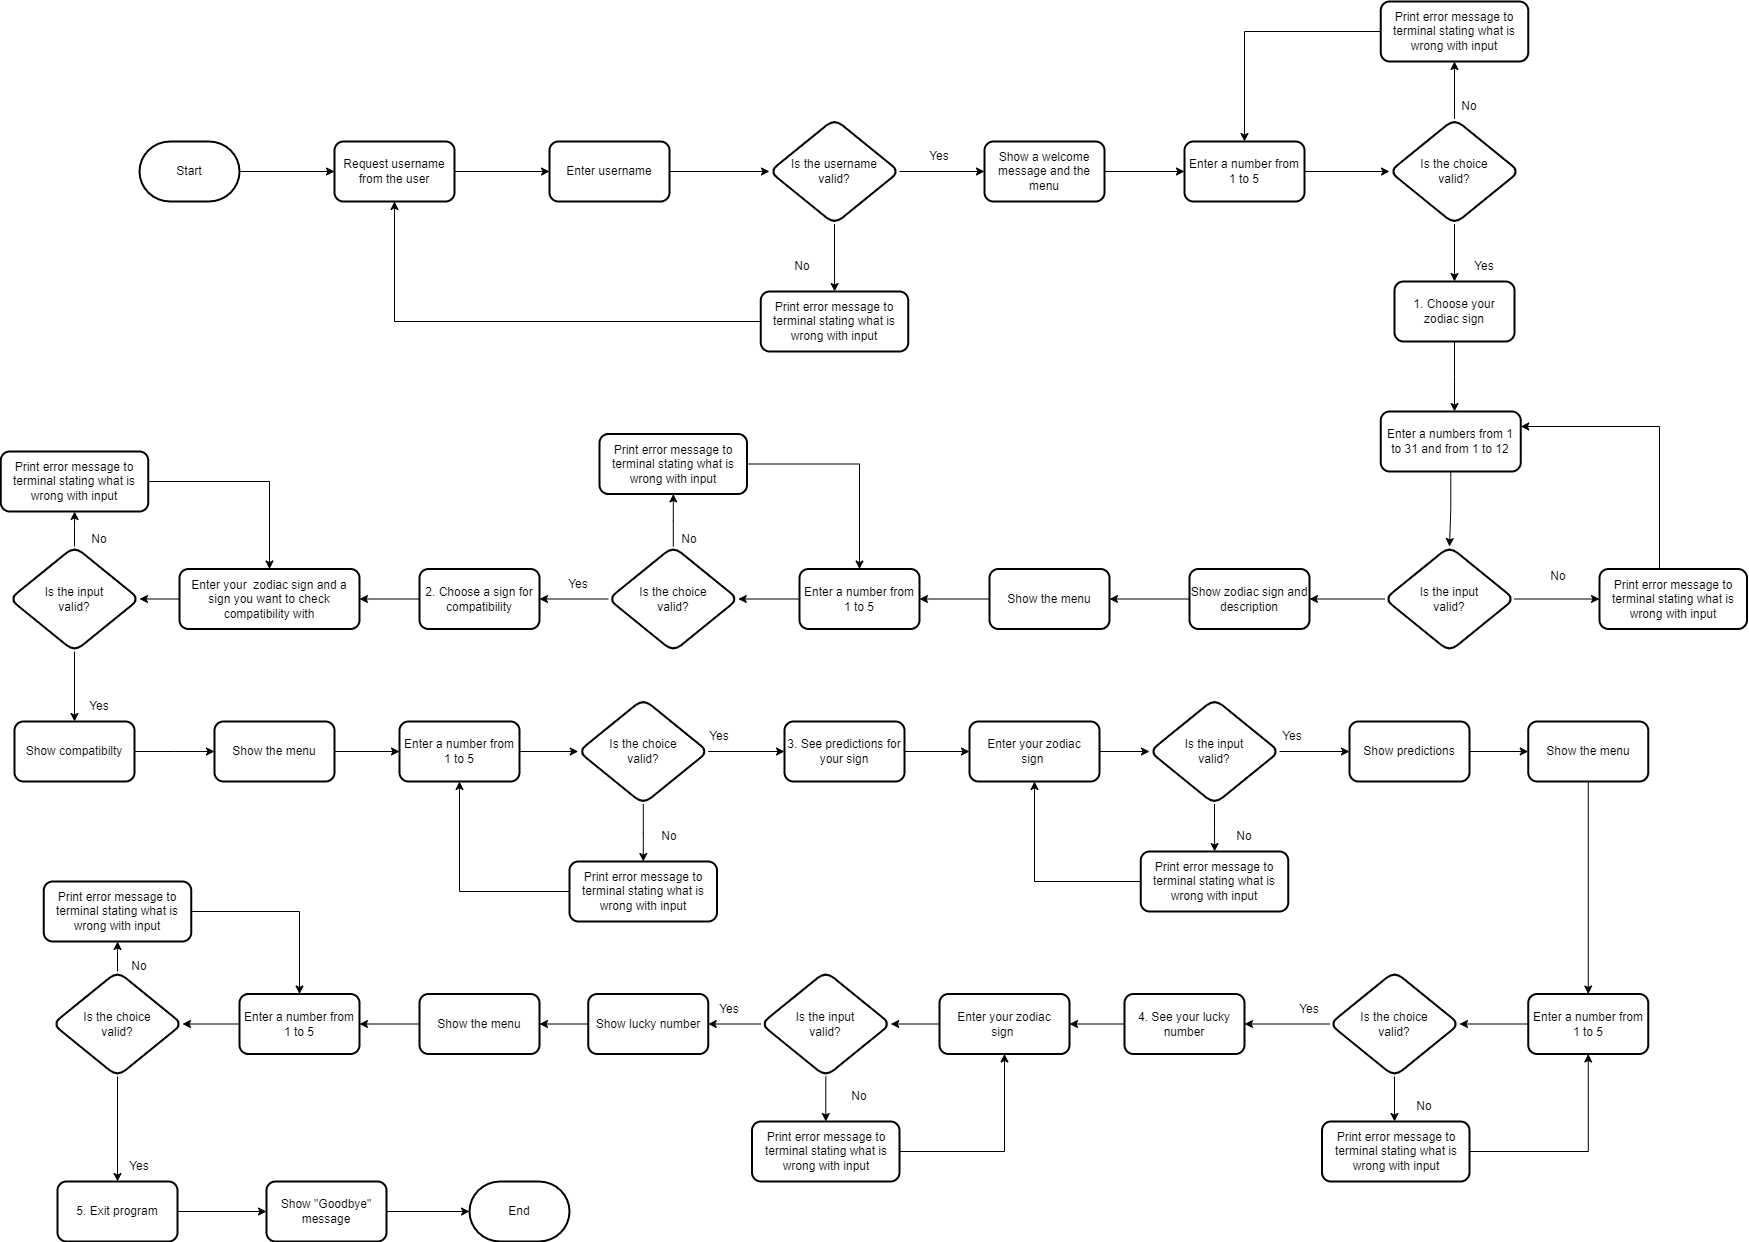
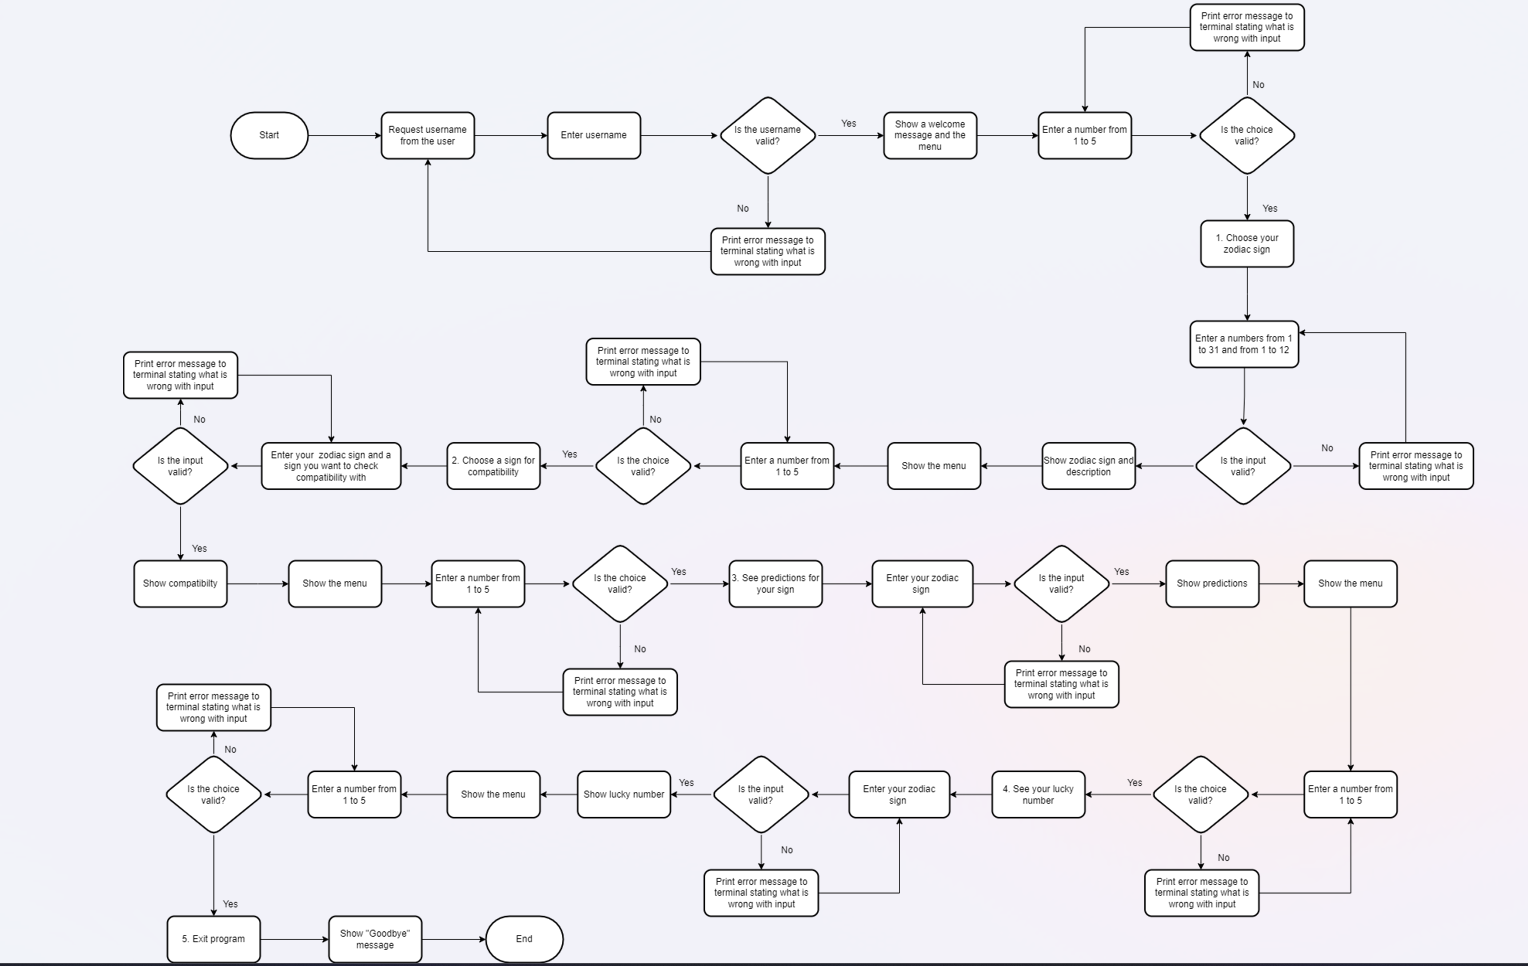
Add flowchart to Design Stage section

diff --git a/README.md b/README.md
@@ -31,3 +31,10 @@ View the live project [here](https://zodiac-sign-app-7fd49a0a9ccc.herokuapp.com/
 1. Understand the purpose of the program.
 2. Get feedback at all times.
 3. Navigate easily through the program.
+
+## Design Stage
+
+### Flowchart
+![Flowchart](README-images/flowchart.png)
+
+This flowchart illustrates the overall program logic and user experience of navigating through the various features. It demonstrates how the user can easily access each feature from the main menu, which reappears after completing each one.
